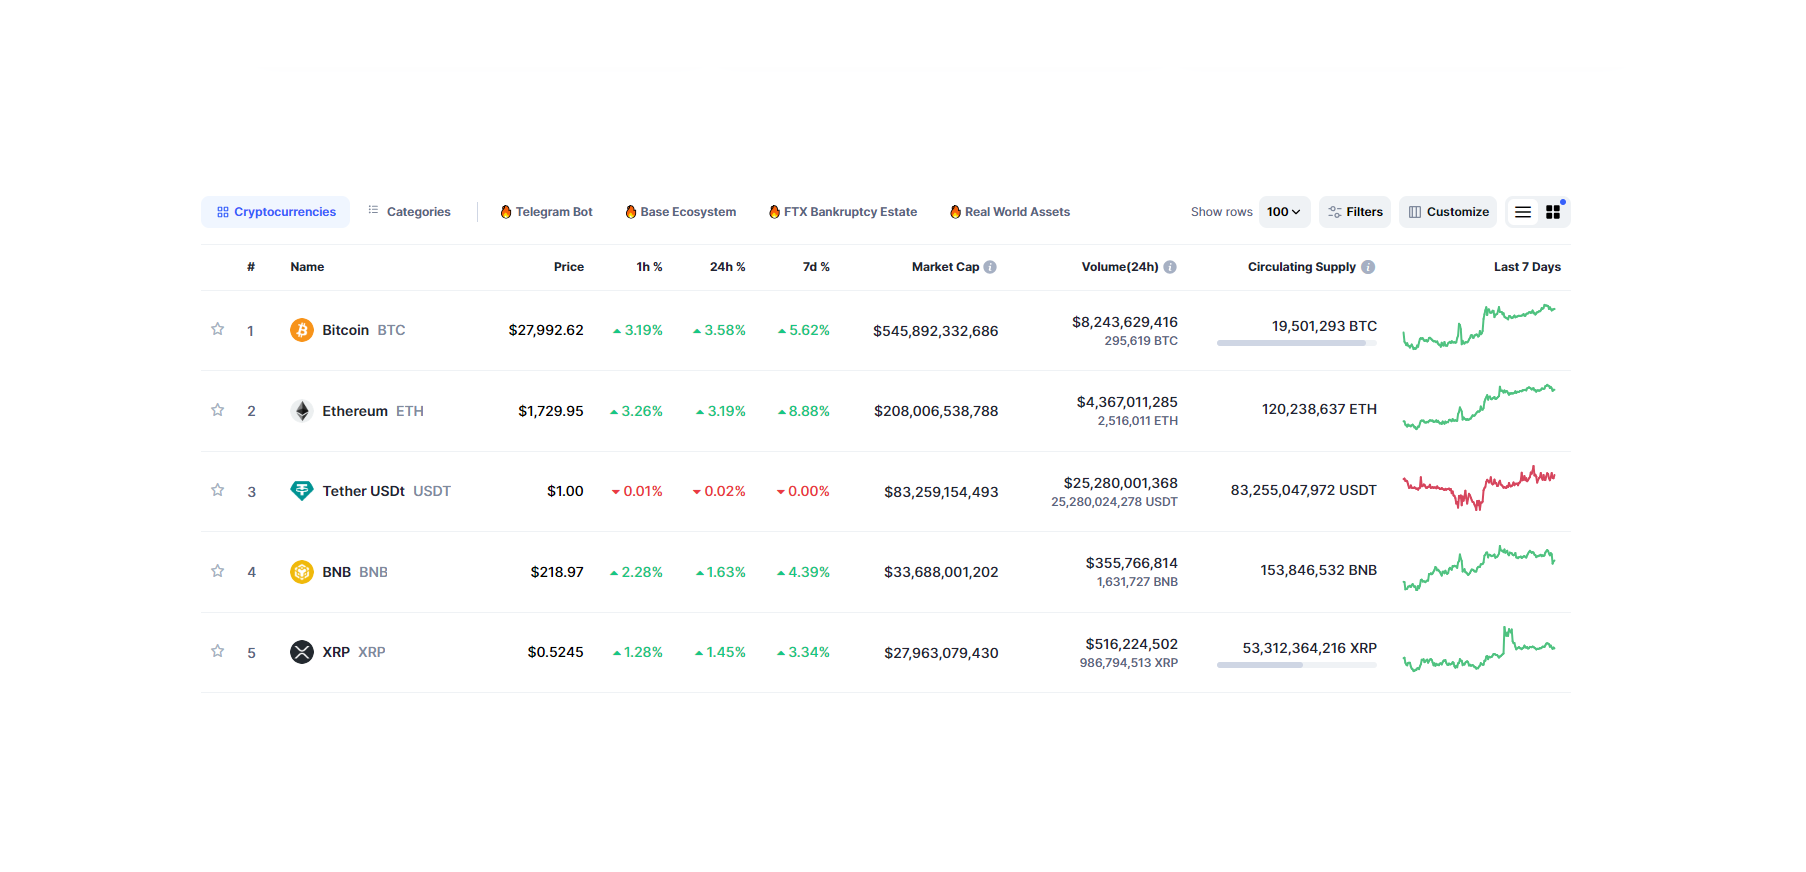
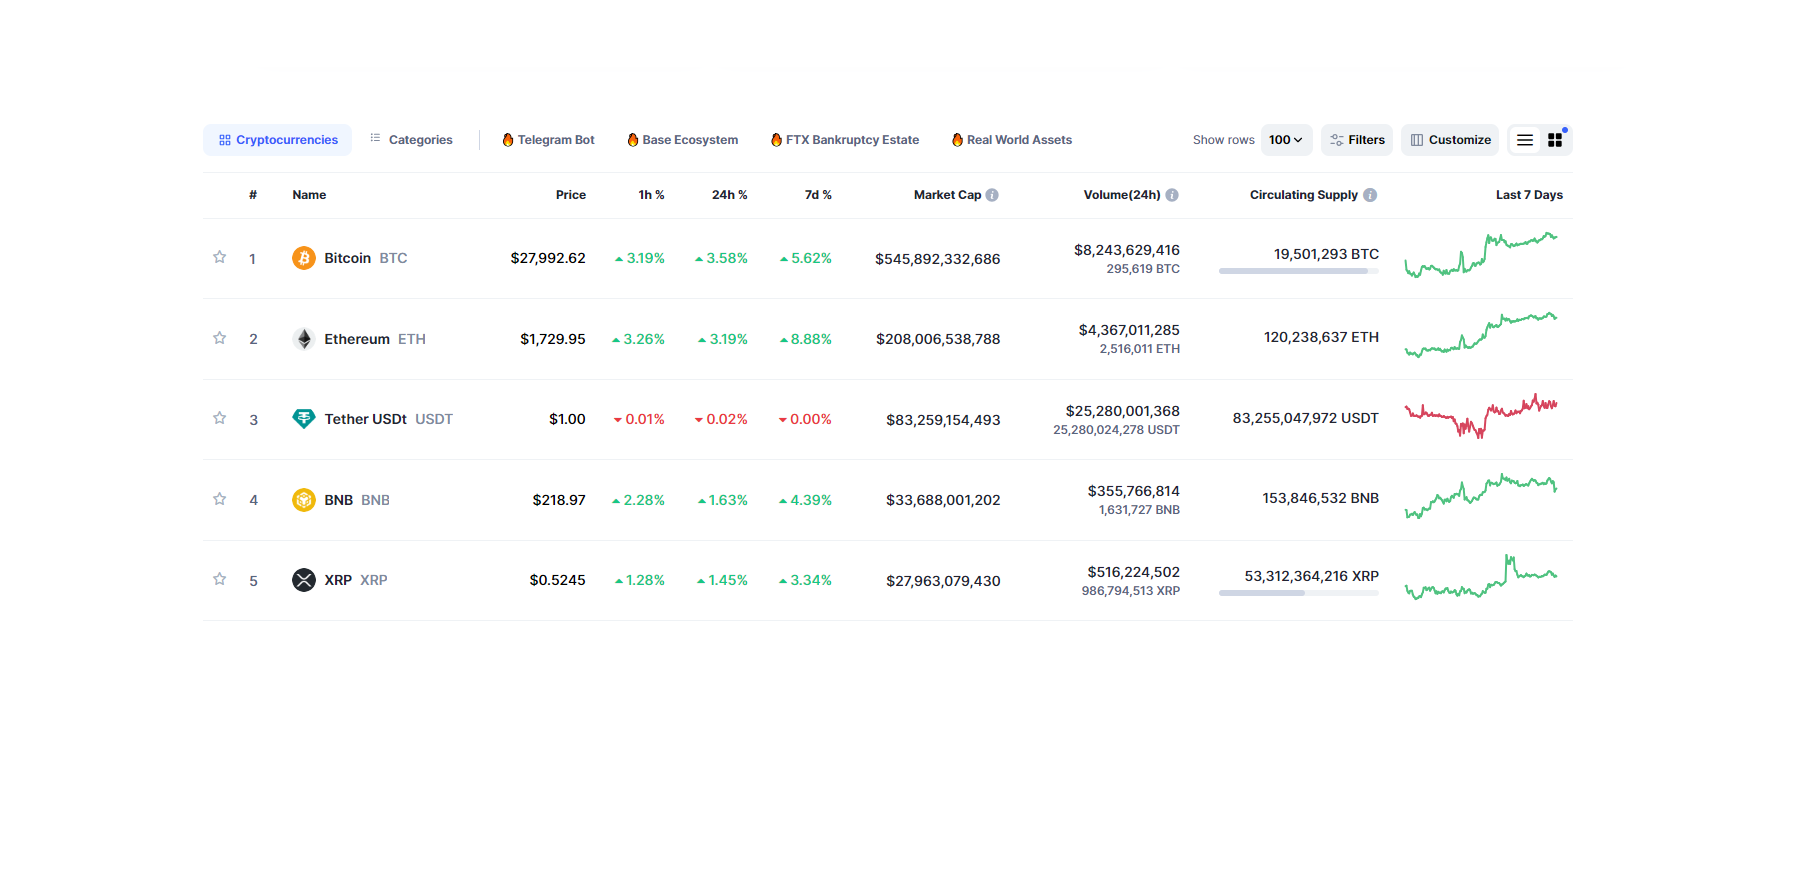
rediseñando top five

diff --git a/index.html b/index.html
@@ -58,7 +58,7 @@
 
             <h1 class="text-center fw-bold fs-1">El exchange Nº1 de Argentina</h1>
             <h4 class="text-center fst-italic fs-5 text-warning ">Con las comisiones mas bajas del mercado</h4>
-
+           
 
           </div>
           <div class="col-lg-4 col-md-4 col-sm-6 ">
@@ -156,7 +156,7 @@
     <section class="row  mx-auto justify-content-center background " id="precios">
       <div class="container  mx-auto">
 
-        <h3 class="text-center mt-5 textblack">
+        <h3 class="text-center mt-3 textblack">
           <img src="img/topfive.png"  class="img-fluid">
         </h3>
 
